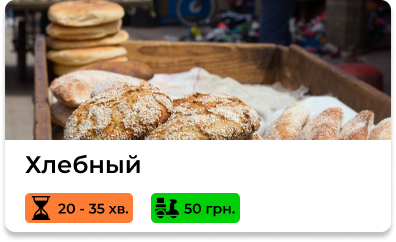
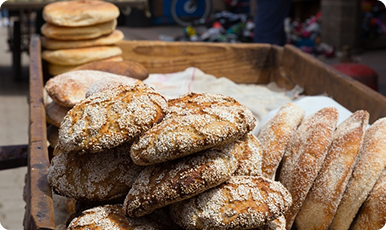
add fix bags hw5

diff --git a/index.html b/index.html
@@ -19,52 +19,182 @@
         </div>
         <div>
             <p style="font-size: 50px; font-weight: bold;">Ресторани</p>
-            <div class="photo-container_1">
-                <img src="./img/mac.png" alt="Mac">
-                <img src="./img/mafia.png" alt="Mafia">
-                <img src="./img/kfc.png" alt="KFC">
+            <div class="restaurant-container">
+                <div class="restaurant-card">
+                    <div class="label popular">ПОПУЛЯРНЕ</div>
+                    <img src="./img/mac.png" alt="Макдональдз">
+                    <h3>Макдональдз</h3>
+                    <div class="info">
+                        <span class="time">⏳ 20 - 35 хв.</span>
+                        <span class="price">💵 50 грн.</span>
+                    </div>
+                </div>
+            
+                <div class="restaurant-card">
+                    <div class="label free-delivery">БЕЗКОШТОВНА ДОСТАВКА</div>
+                    <img src="./img/mafia.png" alt="Mafia">
+                    <h3>Mafia</h3>
+                    <div class="info">
+                        <span class="time">⏳ 20 - 35 хв.</span>
+                        <span class="price">💵 75 грн.</span>
+                    </div>
+                </div>
+            
+                <div class="restaurant-card">
+                    <div class="label spicy">КРИЛЬЦЯ</div>
+                    <img src="./img/kfc.png" alt="KFC">
+                    <h3>KFC</h3>
+                    <div class="info">
+                        <span class="time">⏳ 20 - 35 хв.</span>
+                        <span class="price">💵 50 грн.</span>
+                    </div>
+                </div>
             </div>
         </div>
         <div>
-            <div class="photo-container_2">
-                <img src="./img/pizza_house.png" alt="Pizza House">
-                <img src="./img/rukola.png" alt="Rukola">
-                <img src="./img/crossians.png" alt="Crossians">
+            <div class="restaurant-container">
+                <div class="restaurant-card">
+                    <div class="label free-delivery">БЕЗКОШТОВНА ДОСТАВКА</div>
+                    <img src="./img/pizza_house.png" alt="Pizza House">
+                    <h3>Pizza House</h3>
+                    <div class="info">
+                        <span class="time">⏳ 20 - 35 хв.</span>
+                        <span class="price">💵 1 грн.</span>
+                    </div>
+                </div>
+            
+                <div class="restaurant-card">
+                    <img src="./img/rukola.png" alt="Rukola">
+                    <h3>Rukola</h3>
+                    <div class="info">
+                        <span class="time">⏳ 20 - 35 хв.</span>
+                        <span class="price">💵 50 грн.</span>
+                    </div>
+                </div>
+            
+                <div class="restaurant-card">
+                    <img src="./img/lviv_cros.png" alt="Lviv Crosians">
+                    <h3>Lviv Crosians</h3>
+                    <div class="info">
+                        <span class="time">⏳ 20 - 35 хв.</span>
+                        <span class="price">💵 75 грн.</span>
+                    </div>
+                </div>
             </div>
         </div>
         <div>
-            <div class="photo-container_3">
-                <img src="./img/mamamia.png" alt="Mamamia">
-                <img src="./img/hlebnyi.png" alt="Hlebnyi">
-                <img src="./img/time_cafe.png" alt="Time Cafe">
+            <div class="restaurant-container">
+                <div class="restaurant-card">
+                    <img src="./img/mamamia.png" alt="Mamamia">
+                    <h3>Mamamia!</h3>
+                    <div class="info">
+                        <span class="time">⏳ 20 - 35 хв.</span>
+                        <span class="price">💵 50 грн.</span>
+                    </div>
+                </div>
+            
+                <div class="restaurant-card">
+                    <img src="./img/hlebnyi.png" alt="Hlebnyi">
+                    <h3>Хлебный</h3>
+                    <div class="info">
+                        <span class="time">⏳ 20 - 35 хв.</span>
+                        <span class="price">💵 50 грн.</span>
+                    </div>
+                </div>
+            
+                <div class="restaurant-card">
+                    <img src="./img/time_cafe.png" alt="Time Cafe">
+                    <h3>Time Cafe</h3>
+                    <div class="info">
+                        <span class="time">⏳ 20 - 35 хв.</span>
+                        <span class="price">💵 100 грн.</span>
+                    </div>
+                </div>
             </div>
         </div>
         <div>
-            <div class="photo-container_4">
-                <img src="./img/salateira.png" alt="Salateria">
-                <img src="./img/green_13.png" alt="Green 13">
-                <img src="./img/vapiano.png" alt="Vapiano">
+            <div class="restaurant-container">
+                <div class="restaurant-card">
+                    <img src="./img/salateria.png" alt="Salateria">
+                    <h3>Salateria</h3>
+                    <div class="info">
+                        <span class="time">⏳ 20 - 35 хв.</span>
+                        <span class="price">💵 50 грн.</span>
+                    </div>
+                </div>
+            
+                <div class="restaurant-card">
+                    <img src="./img/green_13.png" alt="Green_13">
+                    <h3>Green 13</h3>
+                    <div class="info">
+                        <span class="time">⏳ 20 - 35 хв.</span>
+                        <span class="price">💵 50 грн.</span>
+                    </div>
+                </div>
+            
+                <div class="restaurant-card">
+                    <img src="./img/vapiano.png" alt="Vopiano">
+                    <h3>Vopiano</h3>
+                    <div class="info">
+                        <span class="time">⏳ 20 - 35 хв.</span>
+                        <span class="price">💵 50 грн.</span>
+                    </div>
+                </div>
             </div>
         </div>
         <div>
-            <div class="photo-container_5">
-                <img src="./img/papa_john.png" alt="Papa John"> 
+            <div class="restaurant-card">
+                <img src="./img/papa_john.png" alt="Папа Джон">
+                <h3>Папа Джон</h3>
+                <div class="info">
+                    <span class="time">⏳ 20 - 35 хв.</span>
+                    <span class="price">💵 50 грн.</span>
+                </div>
             </div>
         </div>
         <div>
             <p style="font-size: 50px; font-weight: bold;">Магазини</p>
-            <div class="photo-container_6">
-                <img src="./img/fora.png" alt="Fora">
-                <img src="./img/atb.png" alt="ATB">
-                <img src="./img/silpo.png" alt="Silpo">
+            <div class="restaurant-container">
+                <div class="magazine-card">
+                    <img src="./img/fora.png" alt="Фора">
+                    <h3>Фора</h3>
+                    <div class="info">
+                        <span class="time">⏳ 20 - 35 хв.</span>
+                        <span class="price">💵 50 грн.</span>
+                    </div>
+                </div>
+            
+                <div class="magazine-card">
+                    <img src="./img/atb.png" alt="ATB">
+                    <h3>АТБ</h3>
+                    <div class="info">
+                        <span class="time">⏳ 20 - 35 хв.</span>
+                        <span class="price">💵 40 грн.</span>
+                    </div>
+                </div>
+                <div class="magazine-card">
+                    <img src="./img/silpo.png" alt="Silpo">
+                    <h3>Сільпо</h3>
+                    <div class="info">
+                        <span class="time">⏳ 20 - 35 хв.</span>
+                        <span class="price">💵 50 грн.</span>
+                    </div>
+                </div>
             </div>
         </div>
         <div>
-            <div class="photo-container_7">
-                <img src="./img/eva.png" alt="Eva"> 
+            <div class="magazine-card">
+                <div class="label free-delivery">БЕЗКОШТОВНА ДОСТАВКА</div>
+                <img src="./img/eva.png" alt="Eva">
+                <h3>Ева</h3>
+                <div class="info">
+                    <span class="time">⏳ 20 - 35 хв.</span>
+                    <span class="price">💵 1 грн.</span>
+                </div>
             </div>
         </div>
     </main>
-    <footer></footer>
+    <footer>
+    </footer>
 </body>
 </html>

diff --git a/style/style.css b/style/style.css
@@ -21,70 +21,77 @@ body {
     width: 70%; 
 }
 
-.photo-container_1 {
+.restaurant-container {
     display: flex;
     justify-content: space-between;
-    padding: 10px;
-    
+    gap: 20px;
+    margin: 15px;
 }
 
-.photo-container_1 img {
-    width: 32%; 
-    height: auto; 
-    border-radius: 10px; 
-    margin: 0 1%; 
+.restaurant-card {
+    width: calc(100% / 3 - 20px);
+    border-radius: 10px;
+    overflow: hidden;
+    background: white;
+    box-shadow: 0 4px 8px rgba(0, 0, 0, 0.2);
+    text-align: center;
+    padding-bottom: 10px;
+    position: relative;
 }
-.photo-container_2 {
+
+.restaurant-card img {
+    width: 100%;
+    height: auto;
+    border-radius: 10px 10px 0 0;
+}
+
+h3 {
+    margin: 10px 0;
+}
+
+.info {
     display: flex;
-    justify-content: space-between;
-    padding: 10px;
-    
+    justify-content: center;
+    gap: 10px;
+    margin-top: 10px;
 }
 
-.photo-container_2 img {
-    width: 32%; 
-    height: auto; 
-    border-radius: 10px; 
-    margin: 0 1%; 
-}
-.photo-container_3 {
-    display: flex;
-    justify-content: space-between;
-    padding: 10px;
-    
+.time {
+    background: orange;
+    padding: 5px;
+    border-radius: 5px;
+    color: white;
 }
 
-.photo-container_3 img {
-    width: 32%; 
-    height: auto; 
-    border-radius: 10px; 
-    margin: 0 1%; 
-}
-.photo-container_4 {
-    display: flex;
-    justify-content: space-between;
-    padding: 10px;
-    
+.price {
+    background: green;
+    padding: 5px;
+    border-radius: 5px;
+    color: white;
 }
 
-.photo-container_4 img {
-    width: 32%; 
-    height: auto; 
-    border-radius: 10px; 
-    margin: 0 1%; 
-}
-.photo-container_5 {
-    display: flex;
-    justify-content: space-between;
-    padding: 10px;
-    
+.label {
+    position: absolute;
+    top: 10px;
+    left: 10px;
+    background: red;
+    color: white;
+    padding: 5px;
+    border-radius: 5px;
+    font-weight: bold;
+    z-index: 10;
 }
 
-.photo-container_5 img {
-    width: 32%; 
-    height: auto; 
-    border-radius: 10px; 
-    margin: 0 1%; 
+.popular {
+    background: orange;
+}
+
+.free-delivery {
+    background: red;
+}
+
+.spicy {
+    background: darkred;
 }
 .photo-container_6 {
     display: flex;
@@ -111,4 +118,19 @@ body {
     height: auto; 
     border-radius: 10px; 
     margin: 0 1%; 
+}
+.magazine-card {
+    width: calc(100% / 3 - 20px);
+    border-radius: 10px;
+    overflow: hidden;
+    background: white;
+    box-shadow: 0 4px 8px rgba(0, 0, 0, 0.2);
+    text-align: center;
+    padding-bottom: 10px;
+    position: relative;
+}
+.magazine-card img {
+    width: 100%;
+    height: auto;
+    border-radius: 10px 10px 0 0;
 }
